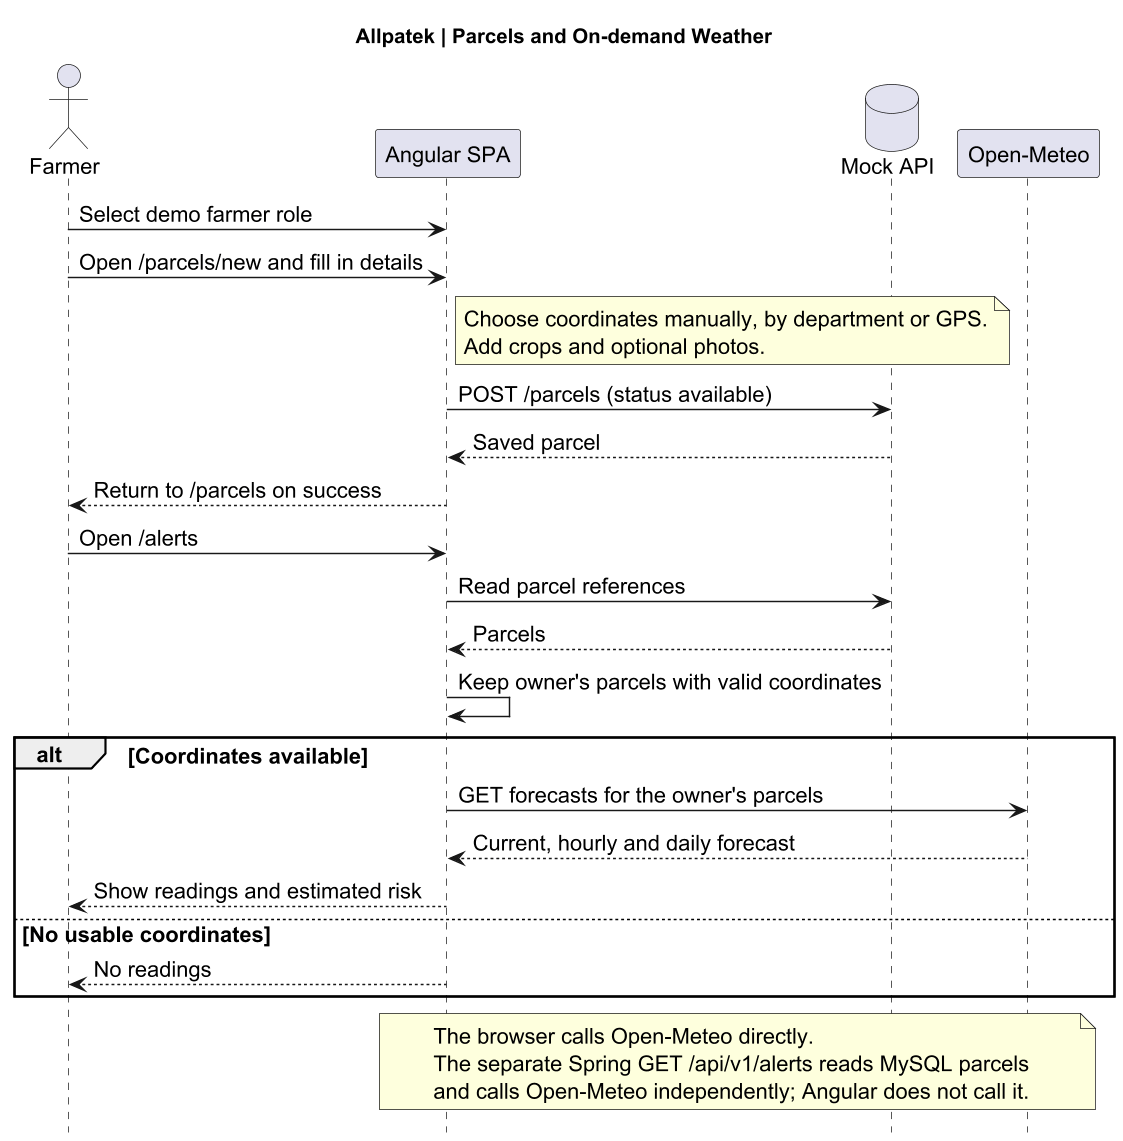
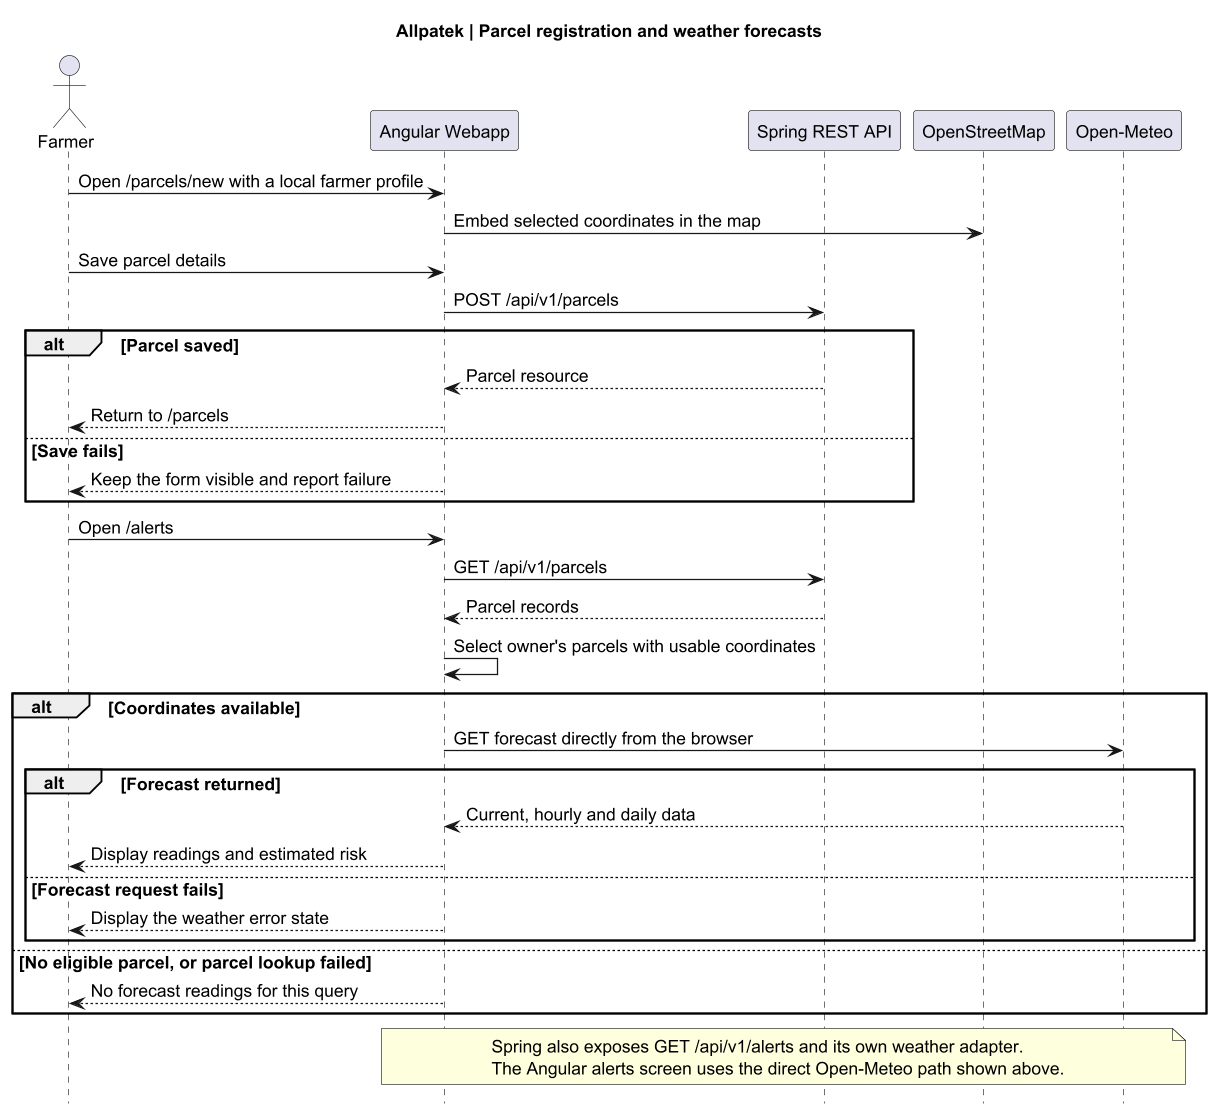
docs(flows): trace parcel registration and browser weather queries

diff --git a/README.md b/README.md
@@ -1978,7 +1978,7 @@ En esta sección se presenta la propuesta formal de User Flows mapeados a partir
 | Comerciante y agricultor | /parcels/:id, /agreements, /agreements/merchant | El comerciante abre el acuerdo desde el detalle de parcela. El agricultor revisa la solicitud en /agreements/merchant y confirma en /agreements. Se almacenan dos indicadores de aceptación. |
 | Agricultor y comerciante | /evidence/new, /evidence/review, /escrow | El agricultor adjunta una imagen. El comerciante verifica la evidencia y luego marca la liberación simulada en la bóveda. |
 | Comerciante | /escrow/deposit | Registra una tarjeta ficticia y un monto de demostración. La interfaz abrevia el número al mostrarlo. La API conserva los datos de prueba. |
-| Agricultor | /alerts | Consulta pronóstico para sus parcelas con coordenadas utilizables. La SPA usa Open-Meteo directamente, sin sensores propios ni un historial de alertas. |
+| Agricultor | /alerts | La SPA lee las parcelas en Spring y consulta Open-Meteo directamente para las del agricultor con coordenadas utilizables. La API también ofrece una consulta de clima independiente. |
 
 En el flujo de evidencias, la UI usa review → verified → accepted. El acceso a evidencias se apoya en la aceptación del comerciante; la bóveda lista acuerdos con ambas aceptaciones y exige una tarjeta de demo y saldo disponible para marcar la liberación. El PUT reducido de liberación no incluye notas ni archivo, y el frontend transforma un error HTTP en un resultado exitoso. Con la API Spring configurada, el aviso puede indicar éxito aunque falle la escritura. Si el servidor acepta el reemplazo, se pueden perder las observaciones o el archivo omitidos. La transición debería guardar solo el nuevo estado, preservar la evidencia y mostrar éxito únicamente tras una respuesta válida.
 
